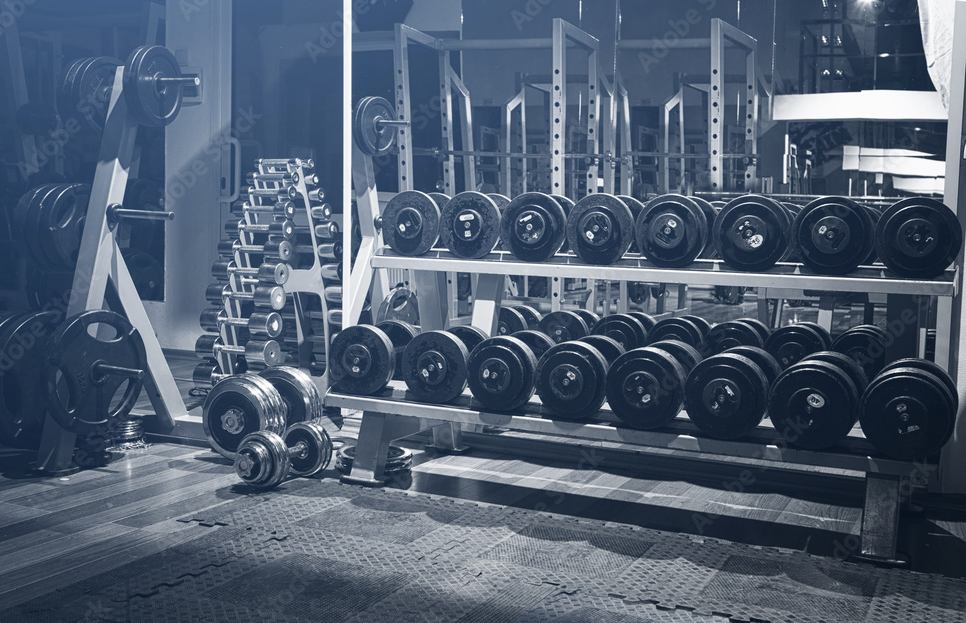
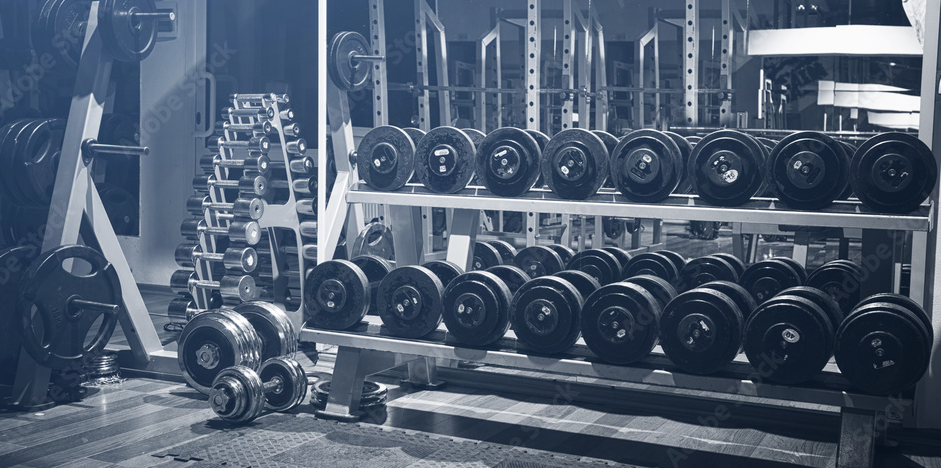
grid added

diff --git a/style.css b/style.css
@@ -7,30 +7,23 @@ img {
 }
 
 #screen {
-    position: relative;
+    display: grid;
+    grid-template-columns: 100%;
+    grid-template-rows: 100%;
     width: 100%;
     aspect-ratio: 16/9;
 }
 
 #game {
-    width: 100%;
-    height: 100%;
-    position: absolute;
-    top: 0%;
-    left: 0%;
-}
-
-#game_elements div{
-    position: absolute;
+    grid-area: 1/1;
+    display: grid;
+    background-color: blue;
+    overflow: hidden;
+    grid-template-columns: 10%/10%;
+    grid-template-rows: 100%;
 }
 
 #game_background{
-    width: 100%;
-    height: 100%;
-    position: absolute;
-    z-index: -1;
     background-size: cover;
-    top: 0%;
-    left: 0%;
     background-image: url(/images/gym.png);
 }
